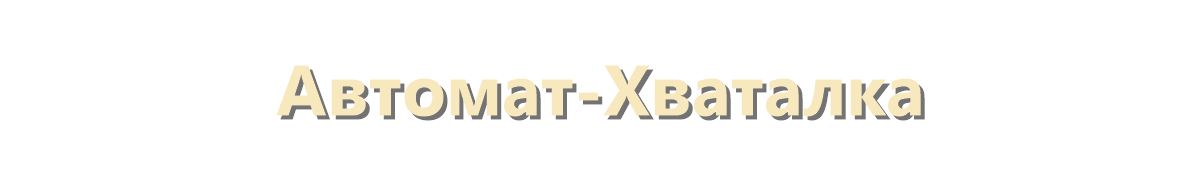
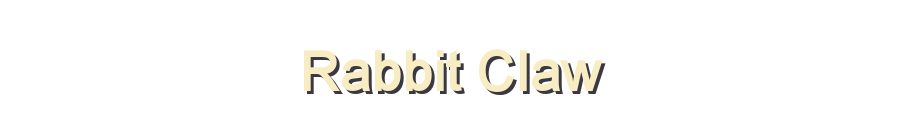
Fix buttons and menu assets

Changed region(s): [[0.2178, 0.3429, 0.7778, 0.6857]]

diff --git a/tools/MenuButtonGenerator.java b/tools/MenuButtonGenerator.java
@@ -22,6 +22,13 @@ import java.util.Map;
 public final class MenuButtonGenerator {
     private static final int WIDTH = 900;
     private static final int HEIGHT = 140;
+    // Подогнано под визуальный стиль старых title-ассетов.
+    private static final float FONT_SIZE = 54f;
+    private static final float TRACKING = -0.015f;
+    private static final int SHADOW_OFFSET_X = 3;
+    private static final int SHADOW_OFFSET_Y = 3;
+    private static final Color SHADOW_COLOR = new Color(10, 8, 20, 205);
+    private static final Color TEXT_COLOR = new Color(248, 236, 194, 255);
 
     private MenuButtonGenerator() {
     }
@@ -72,10 +79,10 @@ public final class MenuButtonGenerator {
             // В оригинальных кнопках фон рисуется в коде, а PNG содержит только текст.
             // Поэтому здесь сохраняем прозрачный фон и рисуем только надпись.
             // Более мягкий и "круглый" системный шрифт.
-            Font baseFont = loadBaseFont(58f);
+            Font baseFont = loadBaseFont(FONT_SIZE);
             Map<TextAttribute, Object> attrs = new HashMap<>();
             attrs.put(TextAttribute.KERNING, TextAttribute.KERNING_ON);
-            attrs.put(TextAttribute.TRACKING, -0.01f);
+            attrs.put(TextAttribute.TRACKING, TRACKING);
             Font font = baseFont.deriveFont(attrs);
             GlyphVector glyphVector = font.createGlyphVector(g.getFontRenderContext(), text);
             Rectangle bounds = glyphVector.getPixelBounds(g.getFontRenderContext(), 0, 0);
@@ -84,11 +91,11 @@ public final class MenuButtonGenerator {
 
             // Тень.
             g.setFont(font);
-            g.setColor(new Color(16, 12, 28, 165));
-            g.drawString(text, textX + 2, textY + 2);
+            g.setColor(SHADOW_COLOR);
+            g.drawString(text, textX + SHADOW_OFFSET_X, textY + SHADOW_OFFSET_Y);
 
             // Основной цвет.
-            g.setColor(new Color(248, 236, 194, 255));
+            g.setColor(TEXT_COLOR);
             g.drawString(text, textX, textY);
         } finally {
             g.dispose();
